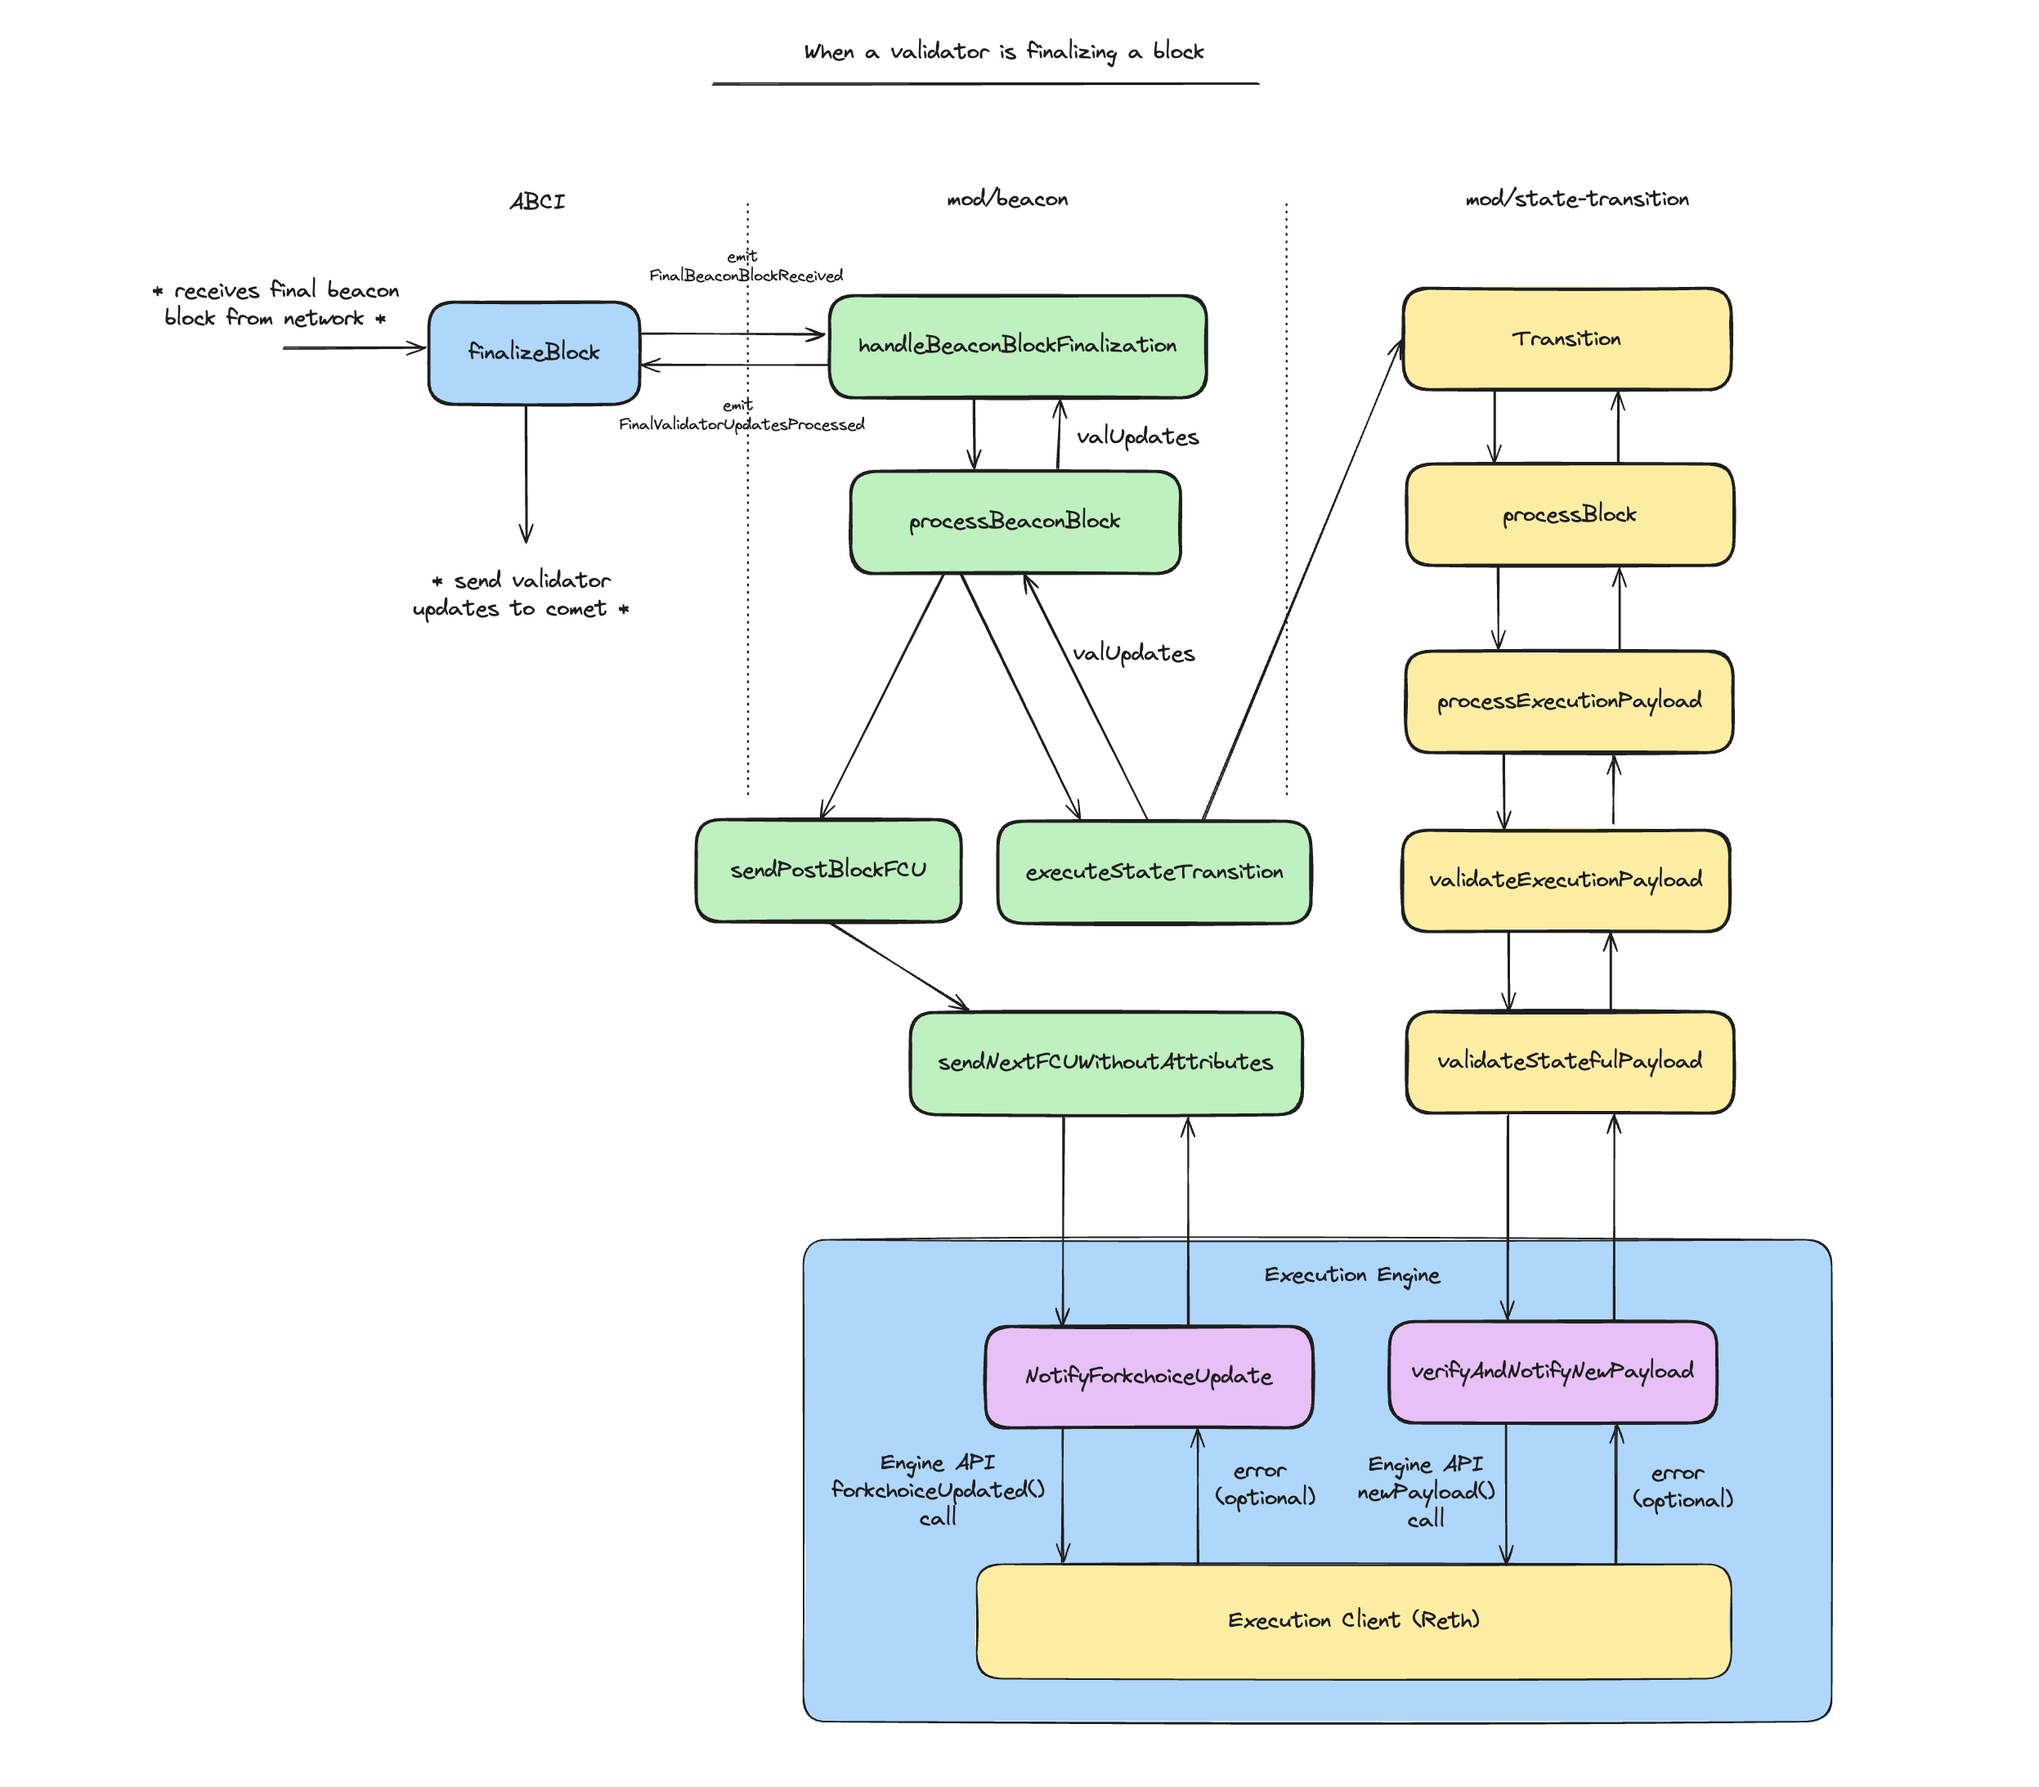
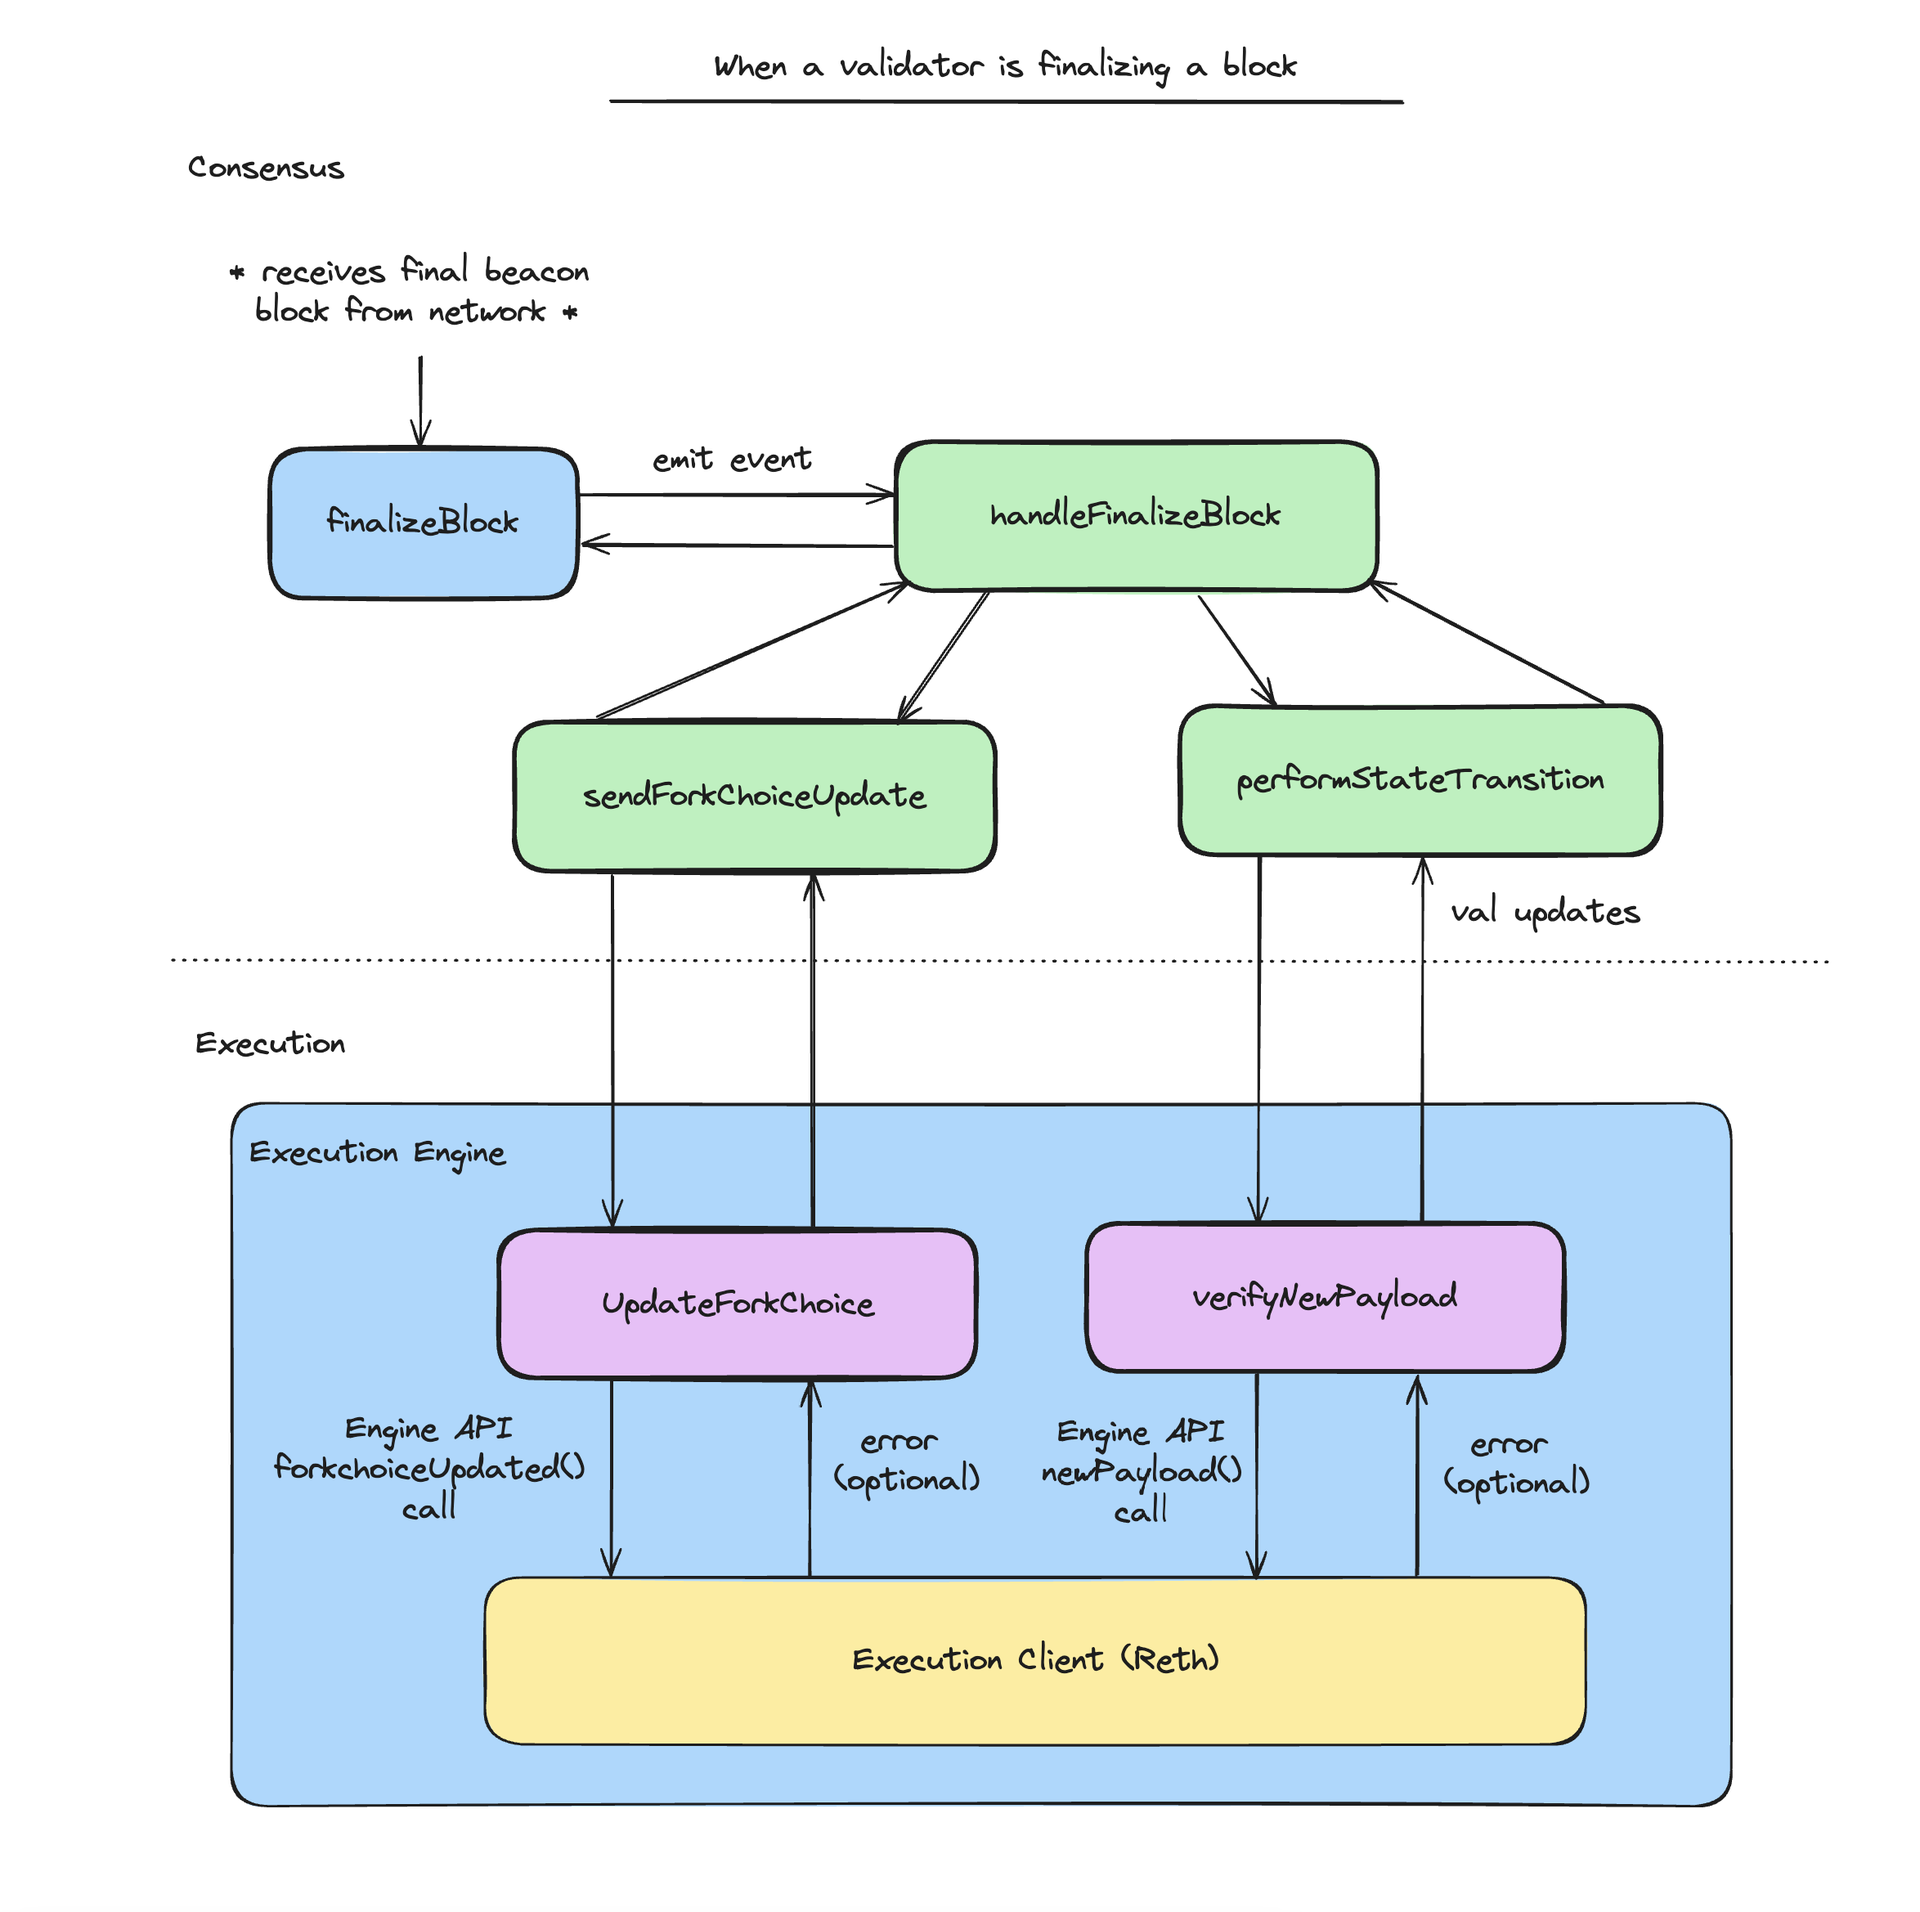
block lifecycle

diff --git a/book/src/chain/lifecycle.md b/book/src/chain/lifecycle.md
@@ -1,2 +1,32 @@
 # Block Lifecycle
 
+This section includes details on the end-to-end lifecycle of various block-related flows in the Infinity L1 architecture, such as proposing and processing a block.
+
+Infinity is built with an event-based architecture. The general block lifecycle looks like this:
+
+1. Consensus triggers some event to be emitted, such as when it's a validator's turn to propose a block.
+2. This event is handled by making calls to the execution engine, which communicates with the execution client through the Engine API.
+3. If relevant, the execution client returns some data (such as validator updates) to the consensus layer.
+
+We go through a few end-to-end flows across this lifecycle below:
+
+### Proposing a block
+
+![propose block](../assets/propose-block.png)
+
+When it's a validator's turn to propose a block, an event is emitted which triggers a `getPayload()` Engine API call to retrieve the execution payload from the execution engine. The proposed block is then gossiped to the rest of the network.
+
+### Processing a block
+
+![process block](../assets/process-block.png)
+
+When a validator receives a beacon block from the proposer, a `newPayload()` Engine API call is made to the execution engine to validate the execution payload in the block.
+
+### Finalizing a block
+
+![finalize block](../assets/finalize-block.png)
+
+When a validator receives a final beacon block from the network, it does two things:
+
+1. It performs the state transition function and makes a `newPayload()` Engine API call to the execution engine to process the execution payload and compute a list of validator updates.
+2. It sends a `forkChoiceUpdate()` to the execution engine to notify the execution client of the latest block being finalized.

diff --git a/book/src/chain/README.md b/book/src/chain/README.md
@@ -10,7 +10,7 @@ Infinity uses Reth as its high-performance execution engine. Reth is responsible
 
 ### Consensus
 
-The Infinity L1 uses InfinityBFT, a single-slot finality consensus protocol. This is how nodes gossip and produce blocks, and agree on the contents of each block. InfinityBFT is also modelled after the Ethereum beacon chain (for more info, read the [ETH 2.0 spec](https://eth2book.info/capella/part3/containers/state/)), and maintains the state of the beacon chain. The consensus and execution layer communicate using the [Engine API](https://hackmd.io/@danielrachi/engine_api).
+The Infinity L1 uses InfinityBFT, a single-slot finality consensus protocol. This is how nodes gossip and produce blocks, and agree on the contents of each block. InfinityBFT is also inspired by the Ethereum beacon chain (for more info, read the [ETH 2.0 spec](https://eth2book.info/capella/part3/containers/state/)), and maintains the state of the beacon chain. The consensus and execution layer communicate using the [Engine API](https://hackmd.io/@danielrachi/engine_api).
 
 ![infinity overview](../assets/infinity-overview.png)
 
